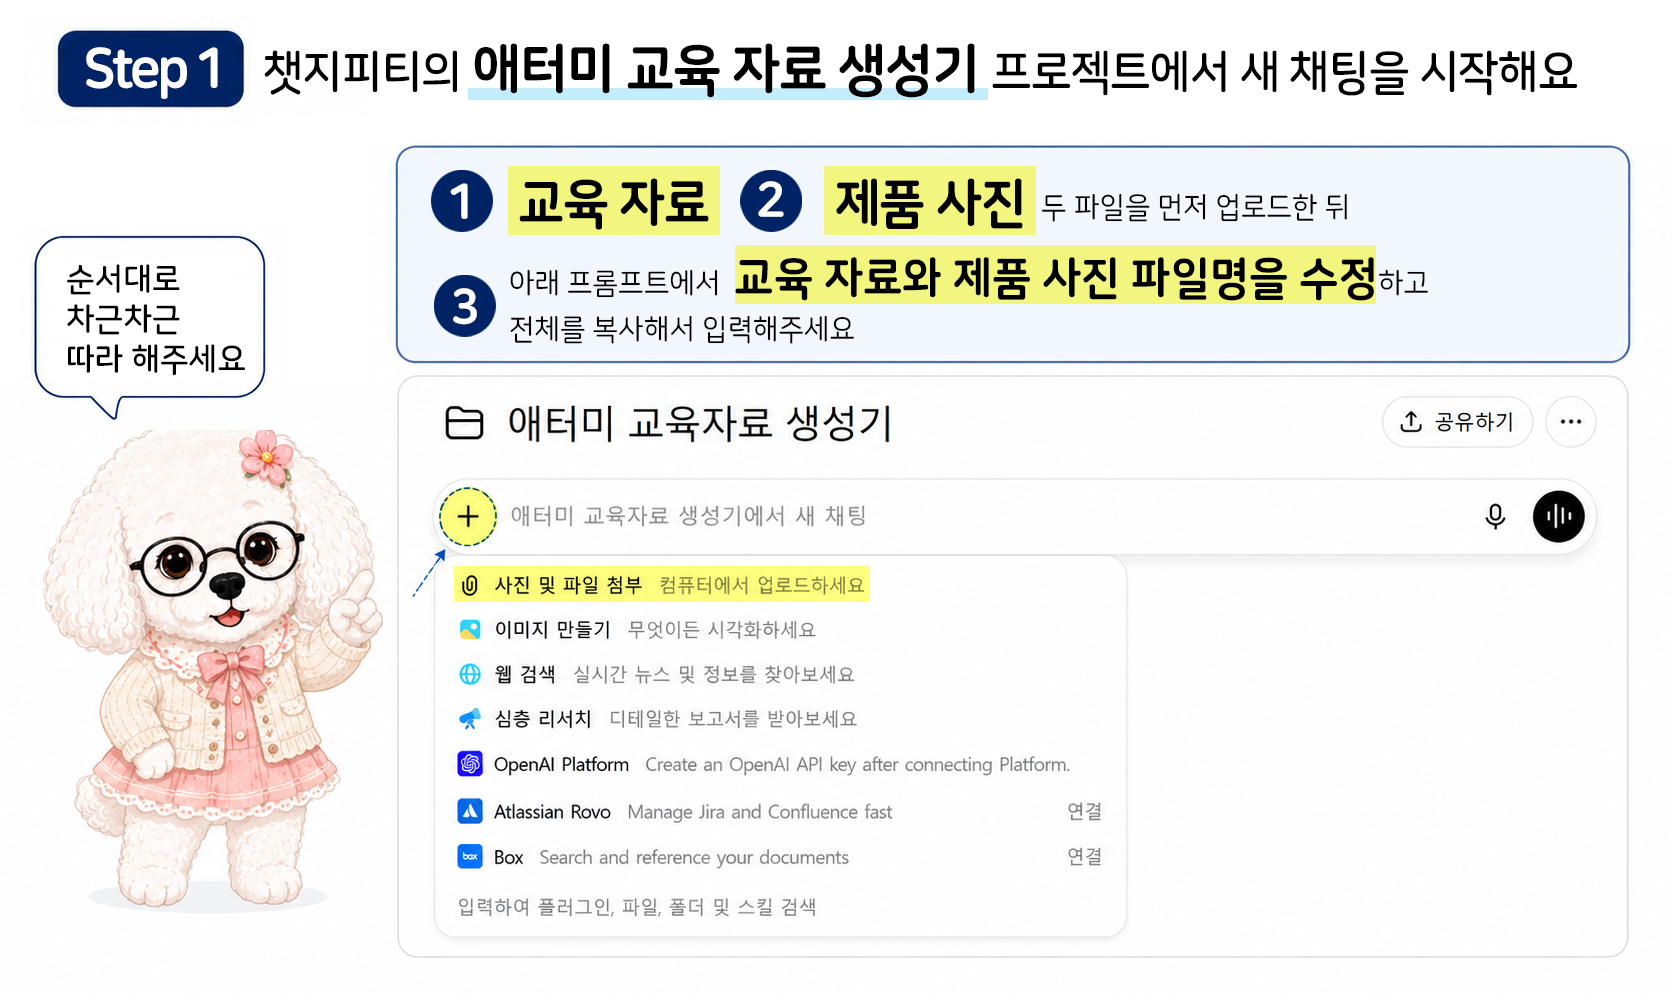
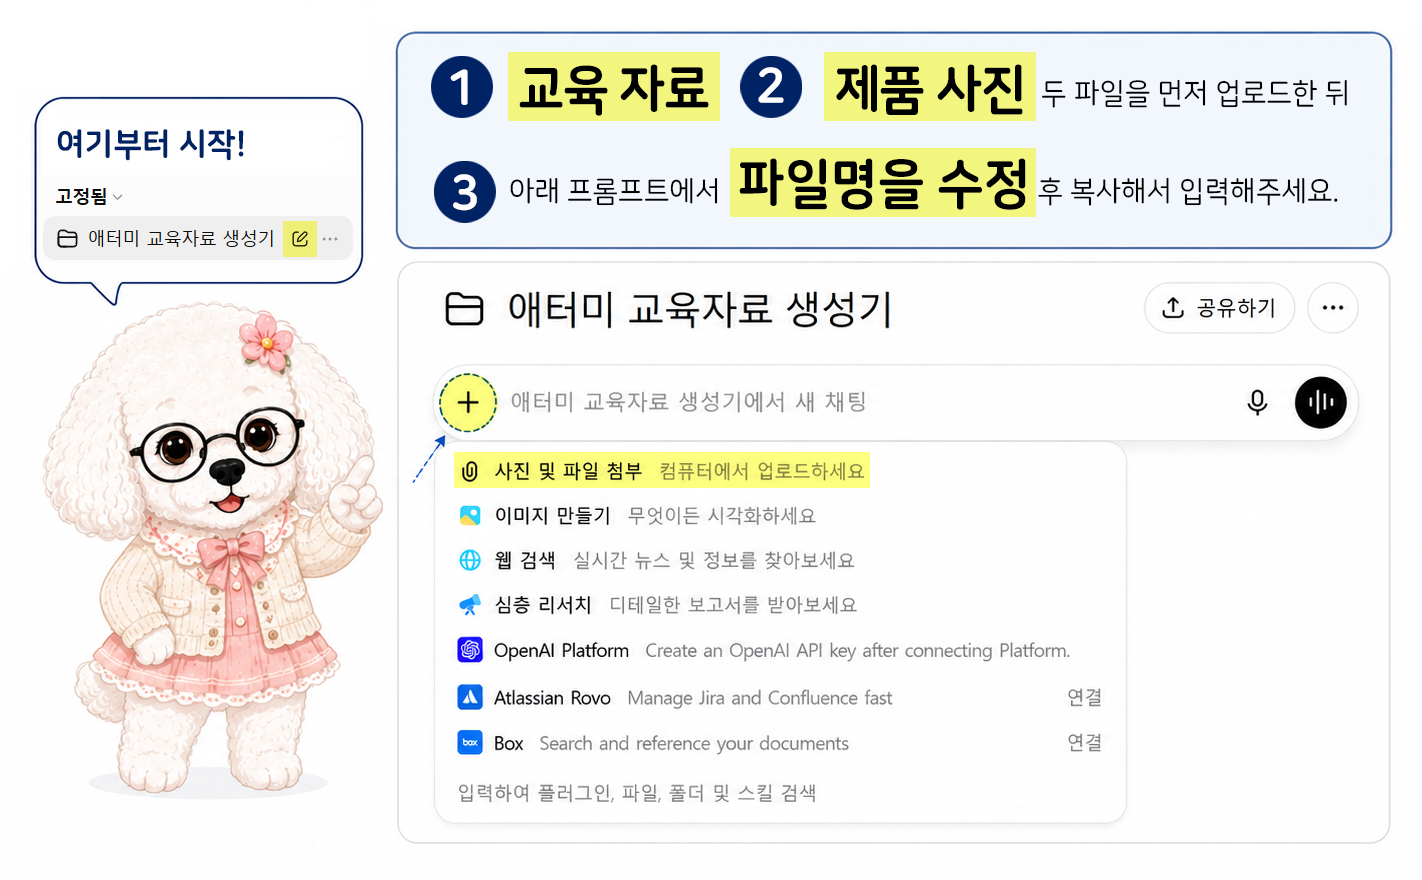
Update AI guide with new steps, enhance styles, and add PPTX guide image

diff --git a/guides/ai.html b/guides/ai.html
@@ -46,7 +46,12 @@
         <p class="description">아래 그림을 보고 따라 해주세요.</p>
 
         <div class="guide-list">
-          <section class="guide-step" aria-labelledby="prompt-one-title">
+          <section class="guide-step" aria-labelledby="step-one-title">
+            <h2 class="guide-step-title" id="step-one-title">
+              <span class="guide-step-number">Step 1:</span>
+              <span>챗지피티 <span class="guide-step-highlight">애터미 교육 자료 생성기</span> 프로젝트에서 새 채팅을 시작해요.</span>
+            </h2>
+
             <figure>
               <img
                 src="../assets/guides/ai_guide_01.png"
@@ -59,31 +64,48 @@
               <div class="prompt-head">
                 <div>
                   <span class="prompt-label">첫 번째 복붙 내용</span>
-                  <h2 id="prompt-one-title">파일 이름을 고친 뒤 복사하세요</h2>
+                  <h3 id="prompt-one-title">파일명이 맞는지 확인한 뒤 복사하세요</h3>
                 </div>
                 <button class="copy-button" type="button" data-copy="prompt-one">전체 복사</button>
               </div>
-              <p class="prompt-help">대괄호로 표시된 교육자료 파일명과 제품사진 파일명을 실제 이름으로 바꾸면 됩니다.</p>
+              <p class="prompt-help">필요한 경우 교육자료 파일명을 실제 이름으로 바꾸면 됩니다.</p>
               <textarea id="prompt-one" spellcheck="false">
 먼저 프로젝트의 `01_ATOMY_MASTER_RULES.md` 전체를 읽어 주세요.
 
-첨부된 
-[교육자료의 정확한 파일명].pdf
-파일을 공식 내용과 수치의 근거로 사용해 주세요.
+이번 작업의 파일 역할은 다음과 같습니다.
 
-함께 첨부한
-[제품사진].png 
-파일은 변경해서는 안 되는 공식 제품 자산입니다. 
+[공식 내용 자료]
+- `1-1.jpg`
+- `1-2.jpg`
+- `2-1.jpg`
+- `2-2.jpg`
+- `3.jpg`
 
+이런 형태의 이미지 파일만 이번 교육자료의 공식 내용, 문구, 수치, 교육 메시지의 근거로 사용해 주세요.
 
-제품 패키지를 새로 디자인하거나 비슷한 제품으로 다시 그리지 말고, 
-첨부한 제품 사진 속 상자와 용기를 그대로 분리하여 사용해 주세요.
+`2-1.jpg`, `2-2.jpg`처럼 앞의 번호가 같은 파일은 동일한 주제를 다루는 하나의 자료 그룹입니다.
+
+다른 프로젝트 파일이나 PDF에서 빠진 내용을 추가로 가져오지 마세요.
+
+[공식 제품 자산]
+- `제품사진.png`
+- `제품사진.jpg`
+
+이 파일은 변경해서는 안 되는 공식 제품 자산입니다.
+제품이 필요한 이미지에만 사용해 주세요.
+
+제품 패키지를 새로 디자인하거나 비슷한 제품으로 다시 그리지 말고, 제품을 사용하는 경우에는 첨부한 제품 사진 속 상자와 용기를 그대로 분리하여 사용해 주세요.
+
+[시각 디자인 참고 자료]
+- `99_VISUAL_STYLE_REFERENCE_ONLY.pdf`
+
+이 파일은 디자인 품질, 레이아웃, 간격, 조명, 재질, 타이포그래피 수준만 참고해 주세요.
+이 파일에 있는 문구, 수치, 제품 정보, 교육 내용은 이번 작업의 내용 근거로 사용하지 마세요.
 
 한국 회원들을 위한 발표 이미지 시리즈의 기획안만 작성해 주세요.
 아직 이미지는 생성하지 마세요.
 
 먼저 독립적인 교육 메시지와 정보 밀도를 분석한 뒤 필요한 이미지 수를 결정해 주세요.
-
 
 각 이미지에 대해 다음 내용을 보여주세요.
 
@@ -91,45 +113,54 @@
 - 핵심 메시지
 - 화면에 표시할 문구
 - 주요 시각 구조
-- 사용할 공식 자료
+- 사용할 공식 내용 자료
+- 제품 포함 여부: 필수 / 선택 / 없음
 - 제품 사진 사용 방식
 - 정보 밀도 판정
-- 분리 필요 여부</textarea>
+- 분리 필요 여부
+              </textarea>
               <p class="copy-status" id="prompt-one-status" aria-live="polite"></p>
             </div>
           </section>
 
-          <section class="guide-step" aria-labelledby="prompt-two-title">
-            <figure>
-              <img
-                src="../assets/guides/ai_guide_02.png"
-                alt="ChatGPT로 교육자료 그림을 만들기 위한 두 번째 안내"
-                loading="lazy"
-              />
-            </figure>
+          <section class="guide-step" aria-labelledby="step-two-title">
+            <h2 class="guide-step-title" id="step-two-title">
+              <span class="guide-step-number">Step 2:</span>
+              <span>이미지 구상안을 충분히 검토한 뒤 다음 요청을 해 주세요.</span>
+            </h2>
 
             <div class="prompt-card">
               <div class="prompt-head">
                 <div>
                   <span class="prompt-label">두 번째 복붙 내용</span>
-                  <h2 id="prompt-two-title">제품사진 이름을 확인한 뒤 복사하세요</h2>
+                  <h3 id="prompt-two-title">제품사진 이름을 확인한 뒤 복사하세요</h3>
                 </div>
                 <button class="copy-button" type="button" data-copy="prompt-two">전체 복사</button>
               </div>
               <p class="prompt-help">다음 그림부터는 이미지 번호만 2번, 3번처럼 바꾸어 같은 내용을 다시 사용하면 됩니다.</p>
               <textarea class="prompt-short" id="prompt-two" spellcheck="false">
-구상안대로 1번 이미지를 만들어줘.
+구상안대로 1 번 이미지를 만들어줘.
 
-[제품사진].png 
-제품 패키지는 첨부한 이미지 제품을 그대로 사용하고 새로 디자인하지 마.</textarea>
+이미지 구상안에 표시된 `제품 포함 여부: 필수 / 선택 / 없음` 결정을 그대로 따라줘.
+
+제품 포함 여부가 `없음`이면 제품 패키지를 넣지 마.
+`선택`이면 핵심 메시지나 주요 시각 구조를 방해하지 않을 때만 사용해.
+
+제품을 사용하는 경우에는 `제품사진.png` 또는 `제품사진.jpg` 속 공식 패키지를 그대로 사용하고 새로 디자인하지 마.
+              </textarea>
               <p class="copy-status" id="prompt-two-status" aria-live="polite"></p>
             </div>
           </section>
 
-          <section class="guide-step">
+          <section class="guide-step" aria-labelledby="step-three-title">
+            <h2 class="guide-step-title" id="step-three-title">
+              <span class="guide-step-number">Step 3:</span>
+              <span>다음부터는 같은 프롬프트를 숫자만 바꿔서 요청해주세요.</span>
+            </h2>
+
             <figure>
               <img
-                src="../assets/guides/ai_guide_03.png"
+                src="../assets/guides/ai_guide_02.png"
                 alt="ChatGPT로 교육자료 그림을 만드는 마지막 안내"
                 loading="lazy"
               />

diff --git a/style.css b/style.css
@@ -642,6 +642,33 @@ body.guide-page {
   gap: 18px;
 }
 
+.guide-page--ai .guide-step-title {
+  display: flex;
+  align-items: baseline;
+  gap: 10px;
+  margin: 0;
+  color: var(--ink);
+  font-size: 24px;
+  font-weight: 740;
+  line-height: 1.45;
+  letter-spacing: -0.035em;
+}
+
+.guide-page--ai .guide-step-number {
+  flex: 0 0 auto;
+  color: var(--atomy-blue-deep);
+  font-size: 15px;
+  font-weight: 850;
+  letter-spacing: 0.01em;
+}
+
+.guide-step-highlight {
+  flex: 0 0 auto;
+  color: var(--atomy-blue-deep);
+  font-weight: 850;
+  letter-spacing: 0.01em;
+}
+
 .guide-page figure {
   margin: 0;
   padding: 14px;
@@ -677,7 +704,7 @@ body.guide-page {
   align-items: flex-start;
   justify-content: space-between;
   gap: 18px;
-  margin-bottom: 14px;
+  margin-bottom: -12px;
 }
 
 .guide-page--ai .prompt-label {
@@ -805,6 +832,18 @@ body.guide-page {
 
   .guide-page--ai .guide-list {
     gap: 20px;
+  }
+
+  .guide-page--ai .guide-step-title {
+    align-items: flex-start;
+    gap: 8px;
+    font-size: 20px;
+    line-height: 1.4;
+  }
+
+  .guide-page--ai .guide-step-number {
+    padding-top: 4px;
+    font-size: 13px;
   }
 
   .guide-page--ai figure {

diff --git a/guides/pptx.html b/guides/pptx.html
@@ -72,6 +72,13 @@
               loading="lazy"
             /> 
           </figure>
+          <figure>
+            <img
+              src="../assets/guides/pptx_guide_05.png"
+              alt="PPTX 파일을 줌에서 보여주는 방법 다섯 번째 안내"
+              loading="lazy"
+            /> 
+          </figure>
         </div>
 
         <div class="bottom-actions">
